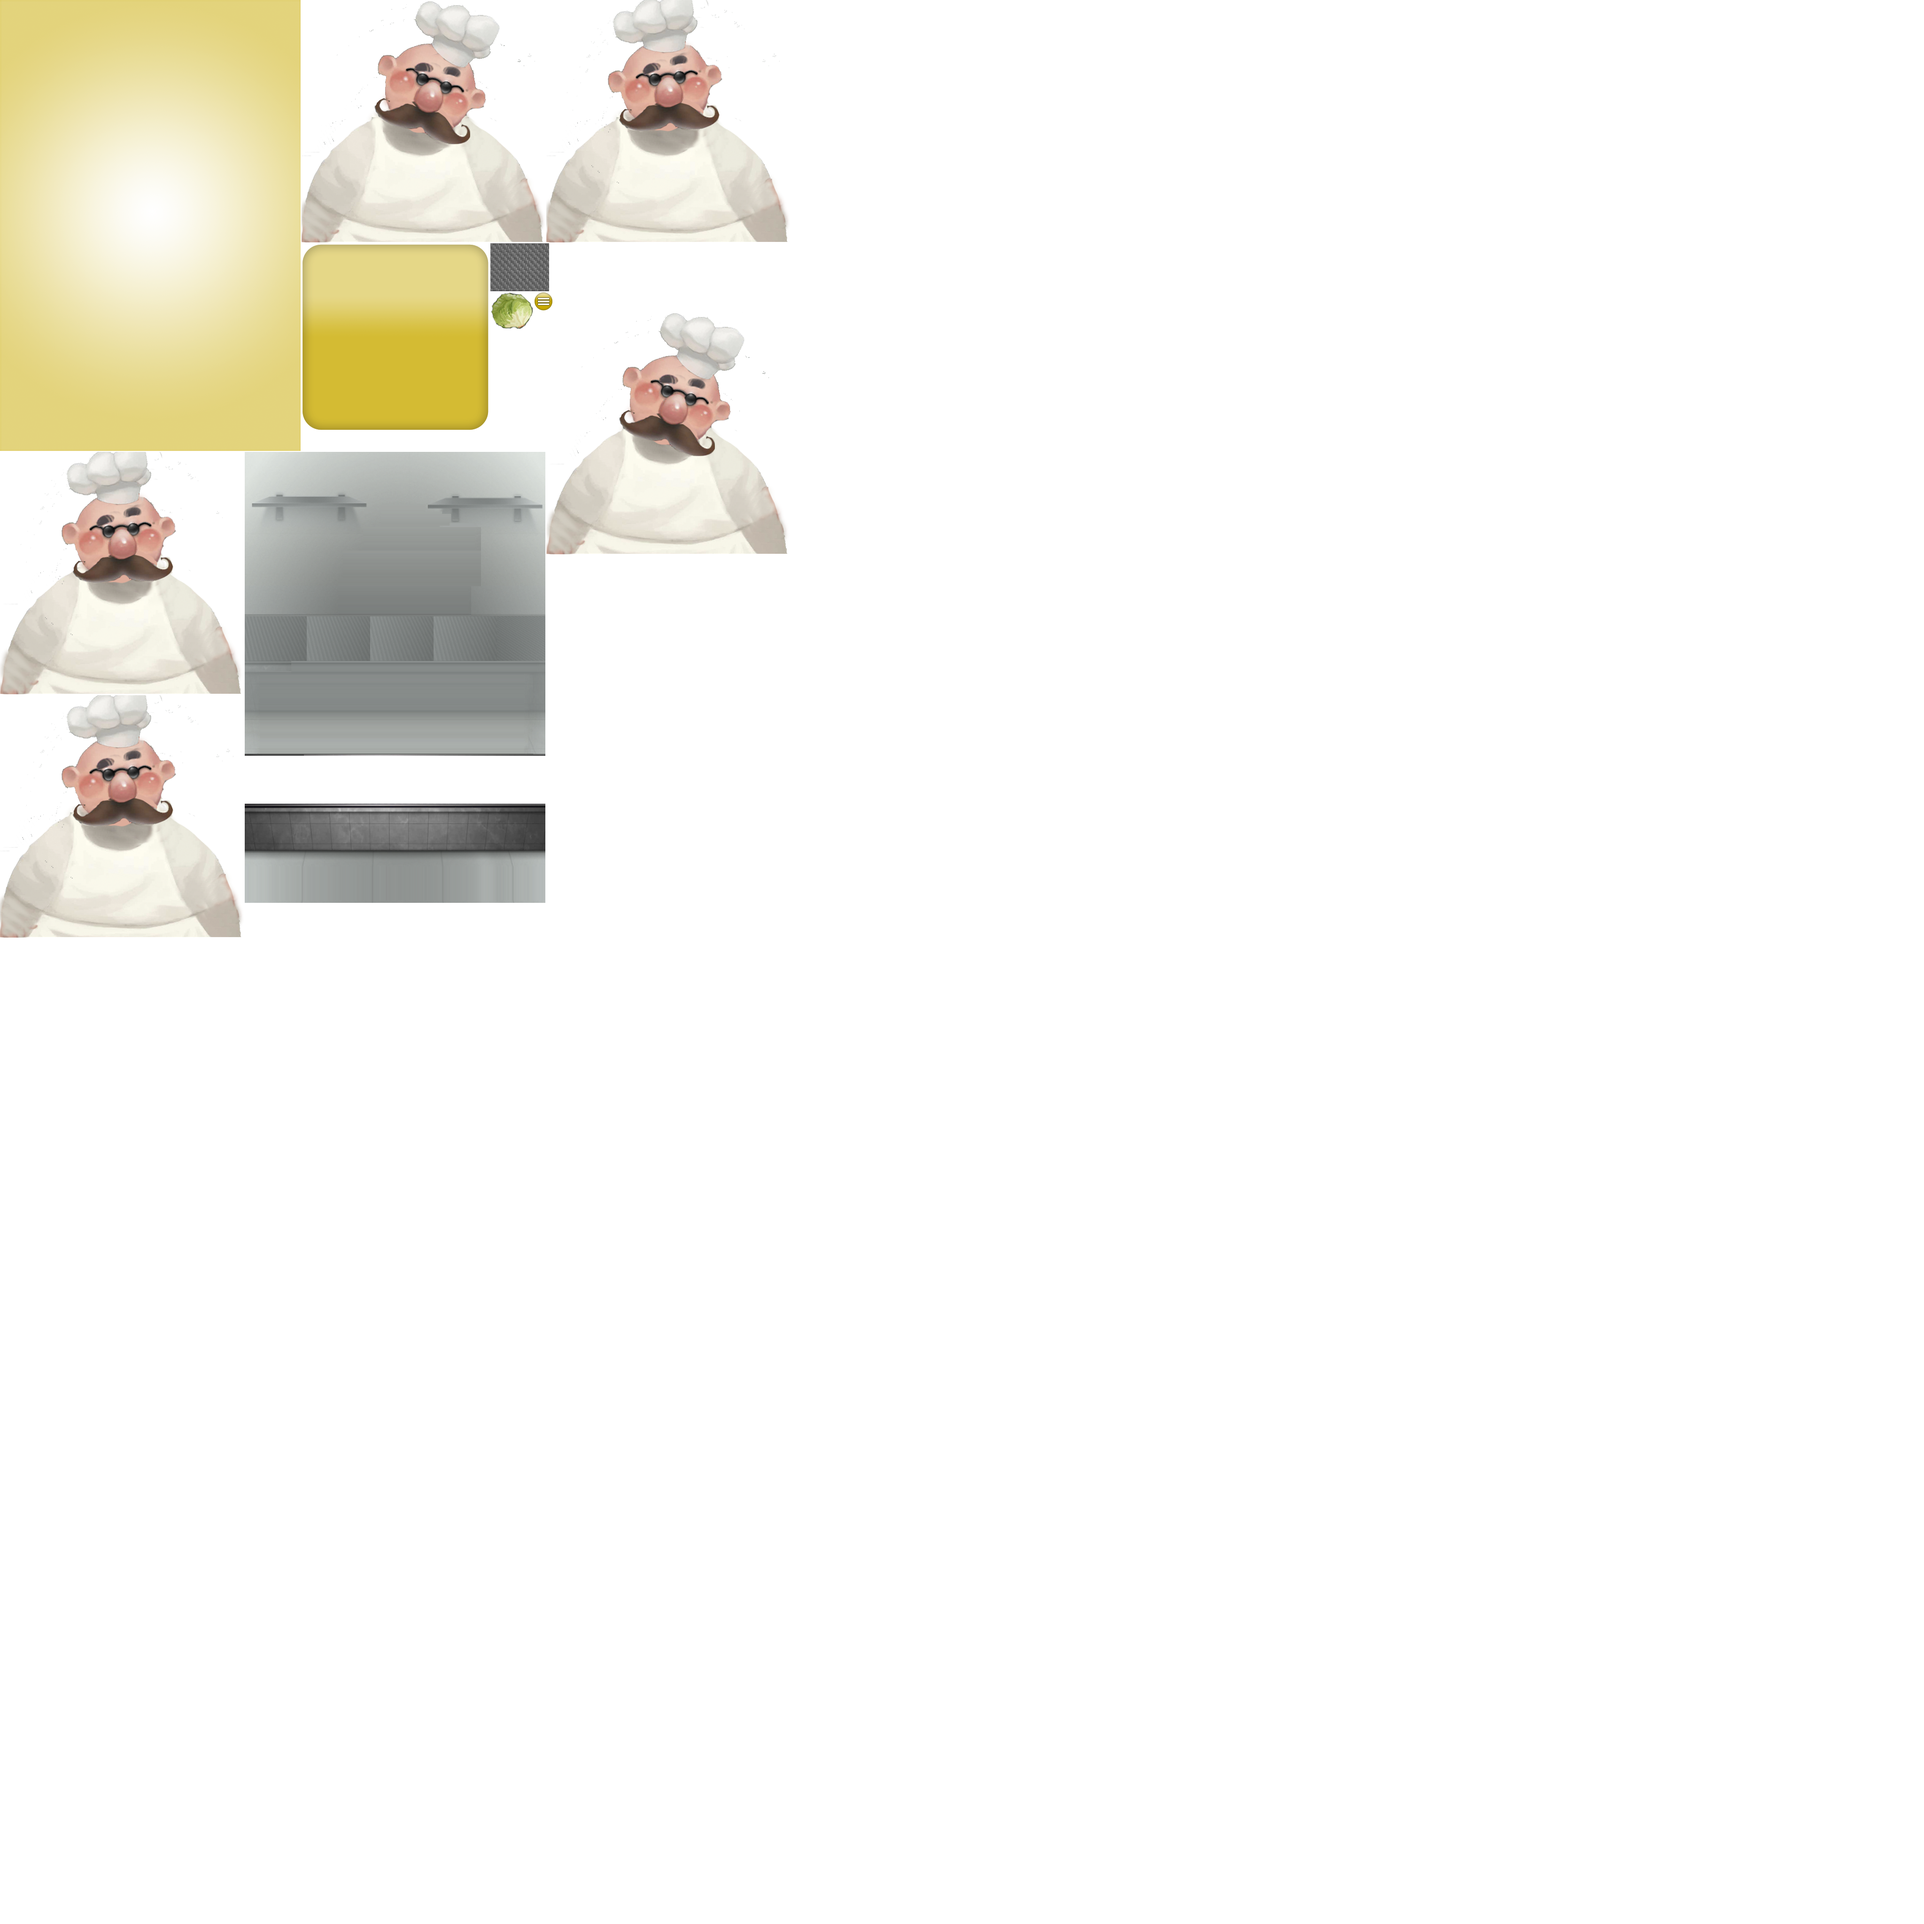
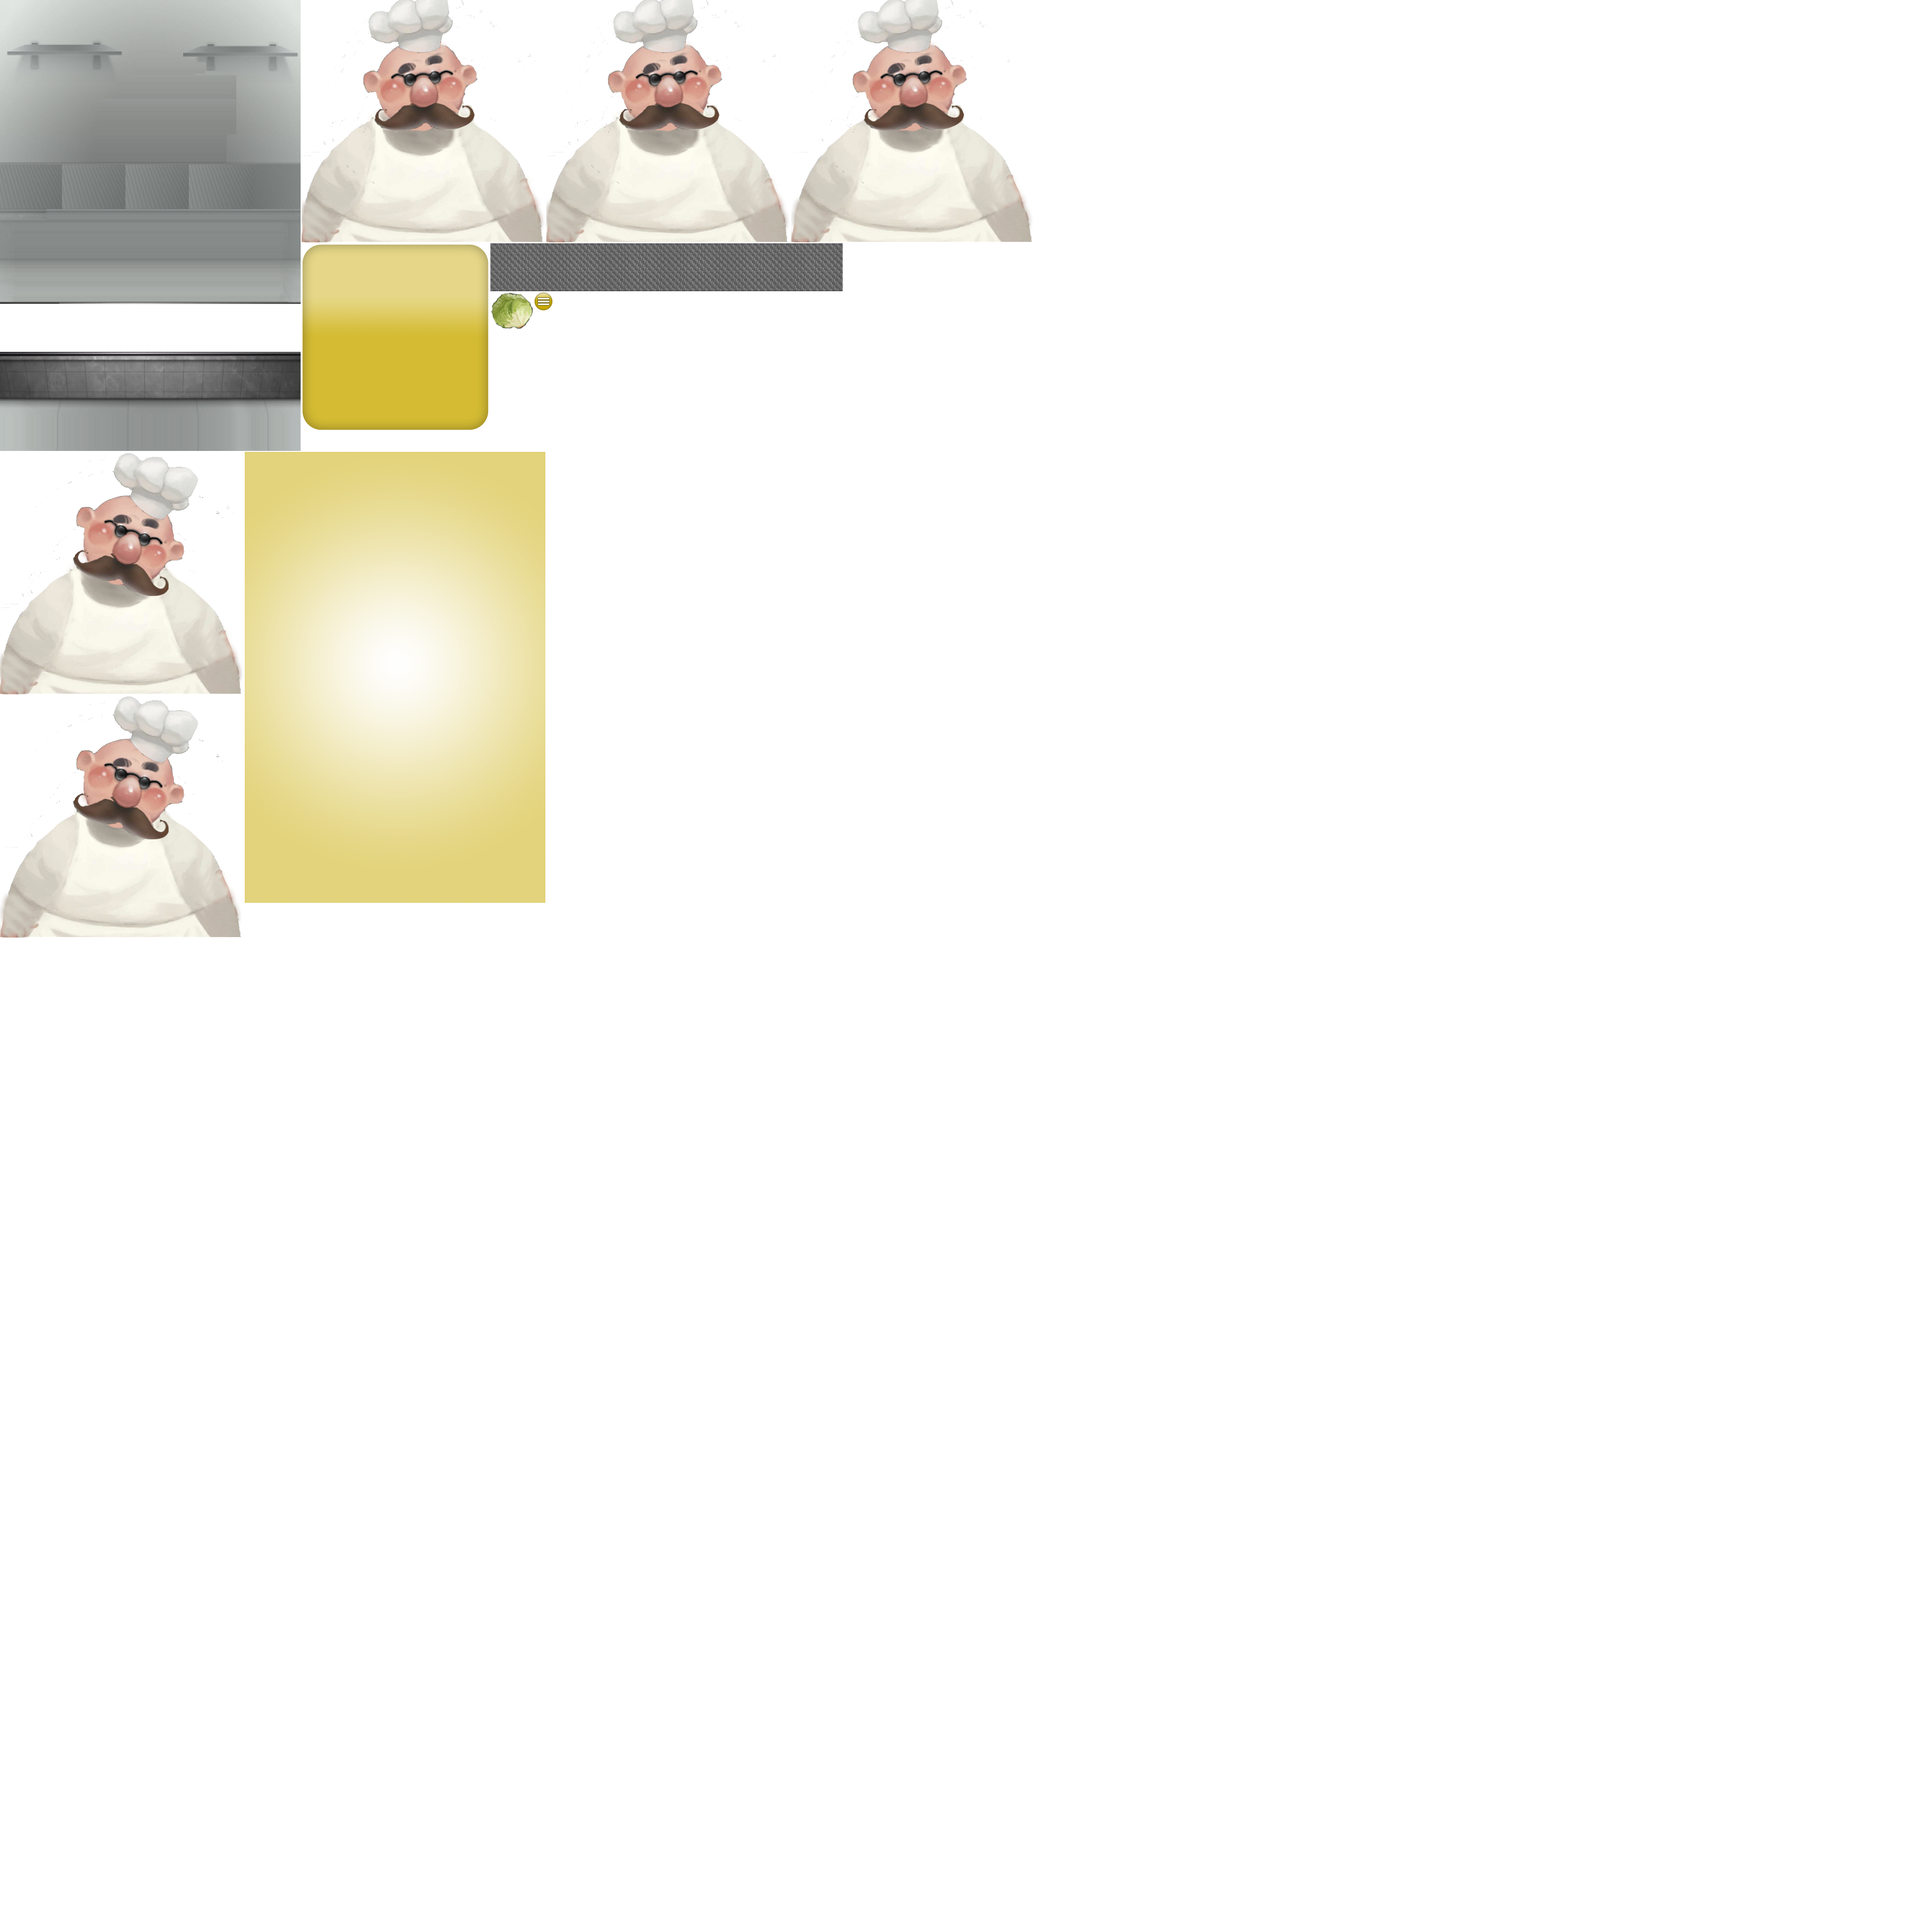
Conveyer added;

Changed region(s): [[0.0, 0.0, 0.5312, 0.4688], [0.1875, 0.0, 0.2812, 0.0938]]

diff --git a/common/ui/menu/GameMenu.cpp b/common/ui/menu/GameMenu.cpp
@@ -43,5 +43,46 @@ void GameMenu::initializeMenu() {
     Chef* chef = Chef::create();
     chef->setPosition(Vec2(chef->getPosition().x + 50, 315)); //TODO: remove x position
     this->addChild(chef, 0);
+    
+    //TODO: move to seporate component
+    conveyorNode = ParallaxNode::create(); //1
+    this->addChild(conveyorNode, 1);
+    
+    visibleSize = Director::getInstance()->getVisibleSize();
+    origin = Director::getInstance()->getVisibleOrigin();
+    
+    Vec2 speed = Vec2(0.05, 0.05);
+    conveyor1 = Sprite::createWithSpriteFrameName("conveyer_1.png");
+    conveyor2 = Sprite::createWithSpriteFrameName("conveyer_1.png");
+    
+    conveyorNode->addChild(conveyor1, 0, speed, Vec2(0, 316-conveyor1->getContentSize().height/2));
+    conveyorNode->addChild(conveyor2, 0, speed, Vec2(conveyor2->getContentSize().width - 1, 316-conveyor2->getContentSize().height/2));
 
+    this->scheduleUpdate();
+}
+
+void GameMenu::update(float dt) {
+    Vec2 pos1 = conveyor1->getPosition();
+    Vec2 pos2 = conveyor2->getPosition();
+    
+    pos1.x -= 5.0f;
+    pos2.x -= 5.0f;
+    
+    
+    
+    if(pos1.x <=-(visibleSize.width*0.5f) )
+    {
+        pos1.x = pos2.x + visibleSize.width;
+    }
+    
+    if(pos2.x <=-(visibleSize.width*0.5f) )
+    {
+        pos2.x = pos1.x + visibleSize.width;
+    }
+    
+    conveyor1->setPosition(pos1);
+    conveyor2->setPosition(pos2);
+    
+    //Vec2 backgroundScrollVert = Vec2(-100, 0);
+    //conveyorNode->setPosition(conveyorNode->getPosition() + backgroundScrollVert *dt);
 }

diff --git a/common/ui/menu/GameMenu.h b/common/ui/menu/GameMenu.h
@@ -9,10 +9,18 @@ class GameMenu : public SimpleMenu
 {
 private:
     typedef SimpleMenu super;
+    
+    cocos2d::ParallaxNode* conveyorNode;
+    cocos2d::Sprite* conveyor1;
+    cocos2d::Sprite* conveyor2;
+    cocos2d::Size visibleSize;
+    cocos2d::Vec2 origin;
 public:
     static GameMenu* create();
     static cocos2d::Scene* createScene();
     virtual void initializeMenu();
+
+    void update(float dt);
 };
 
 
